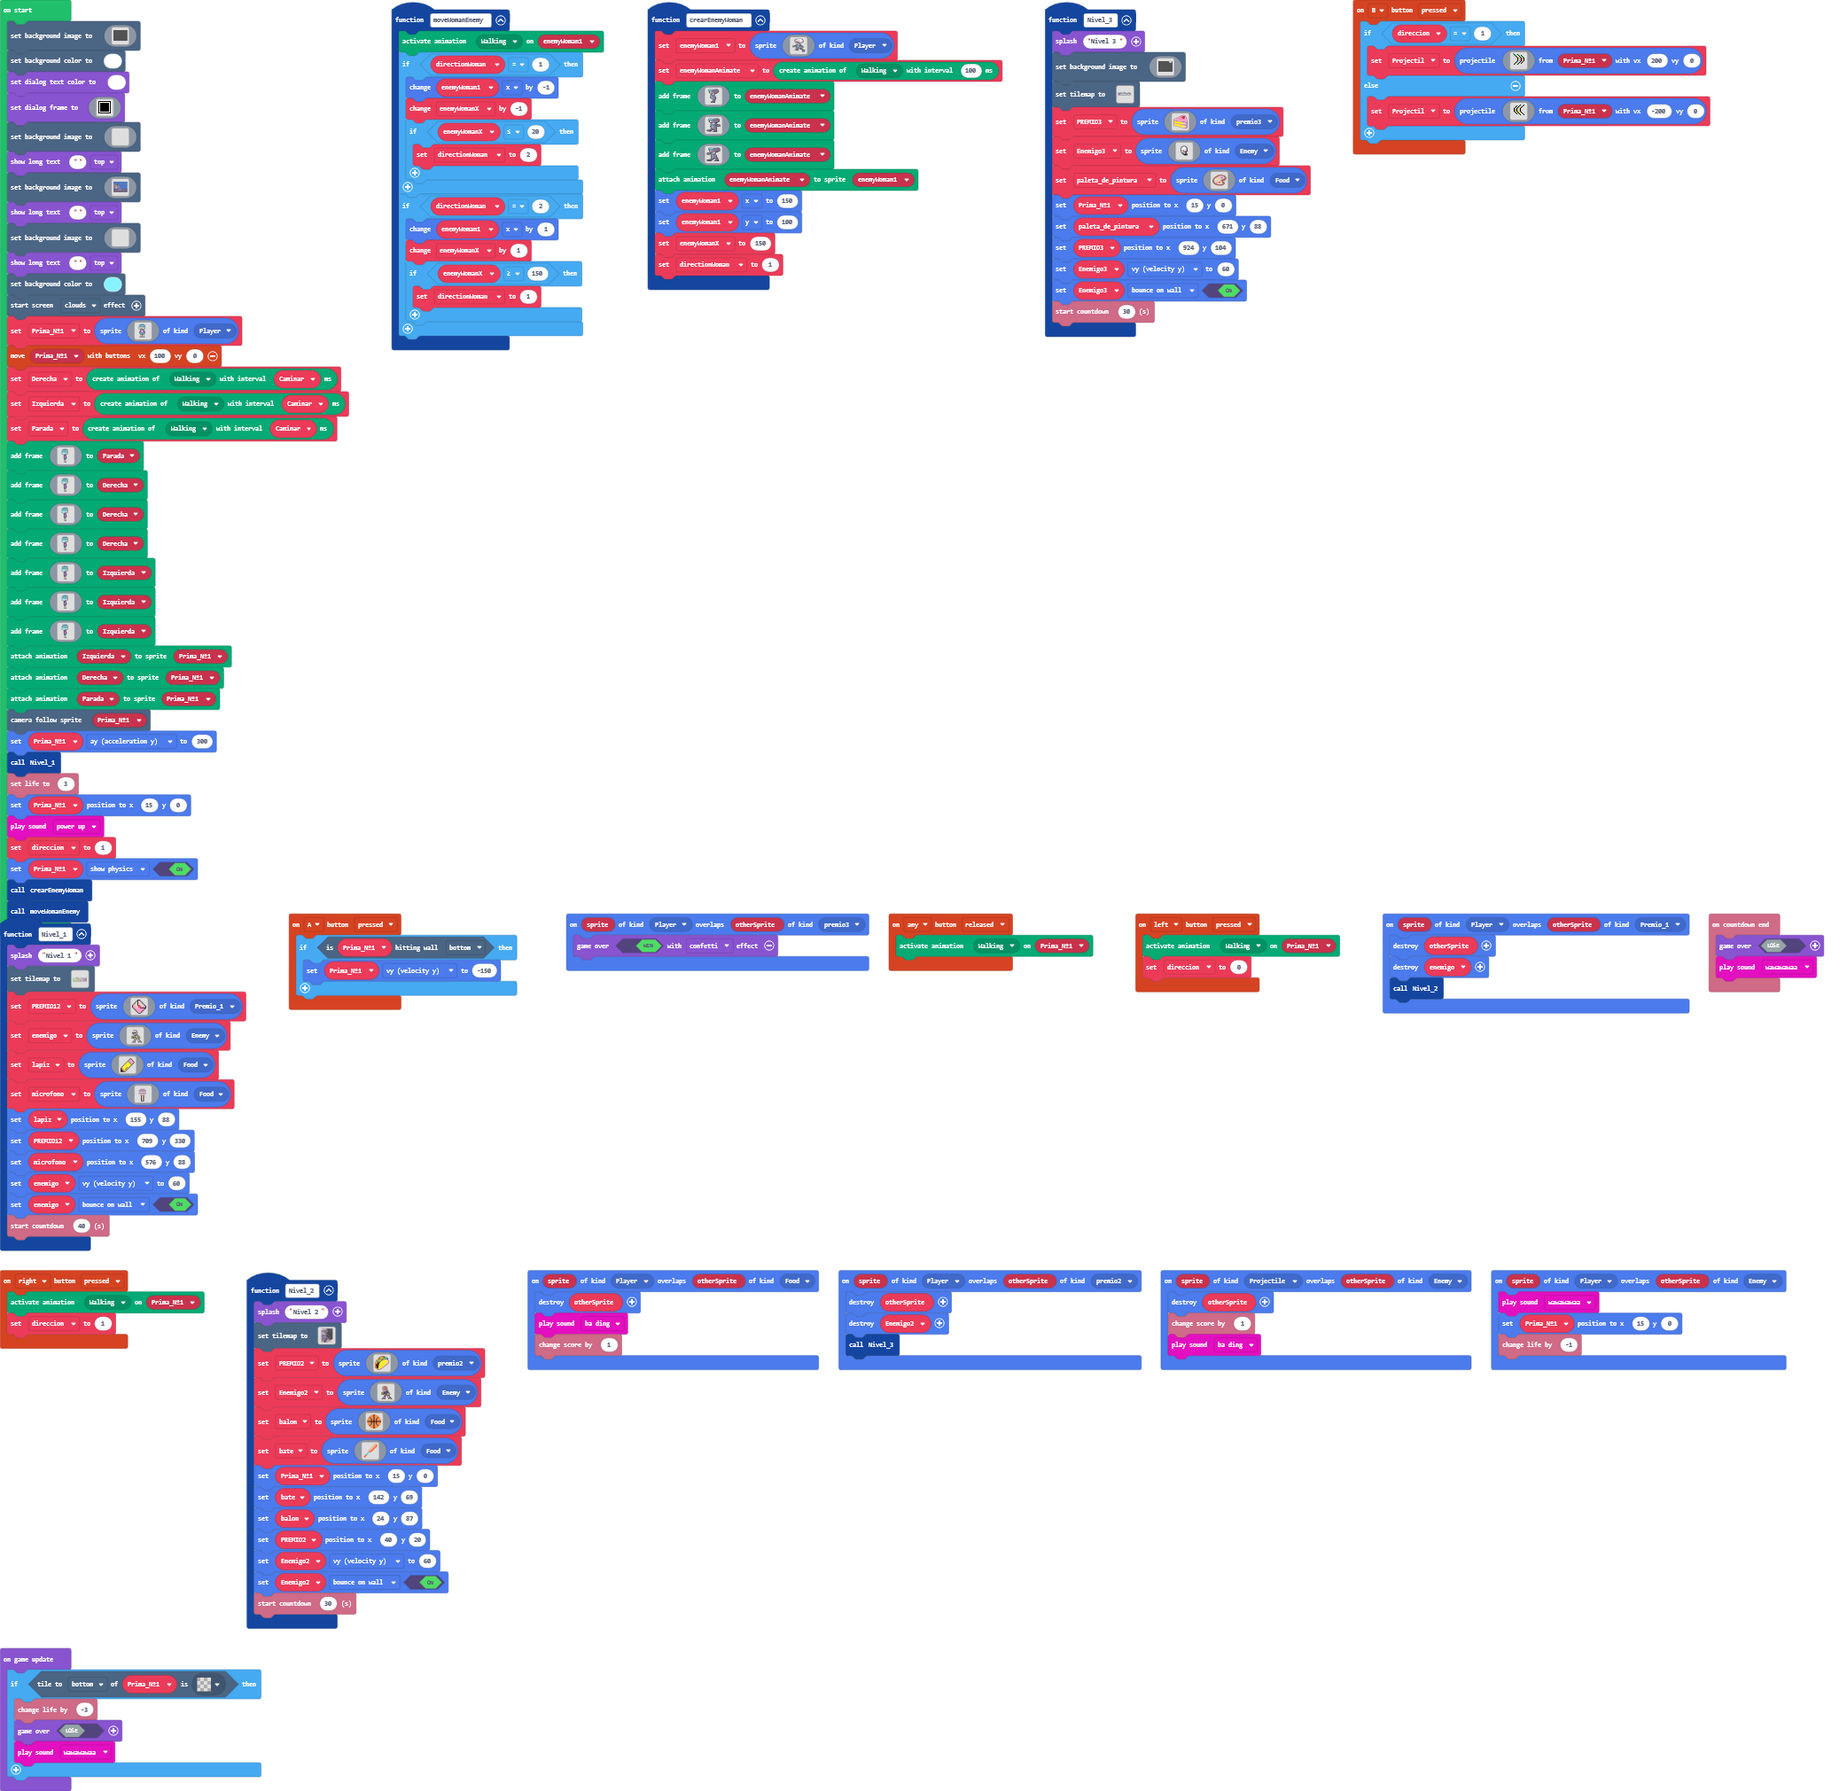
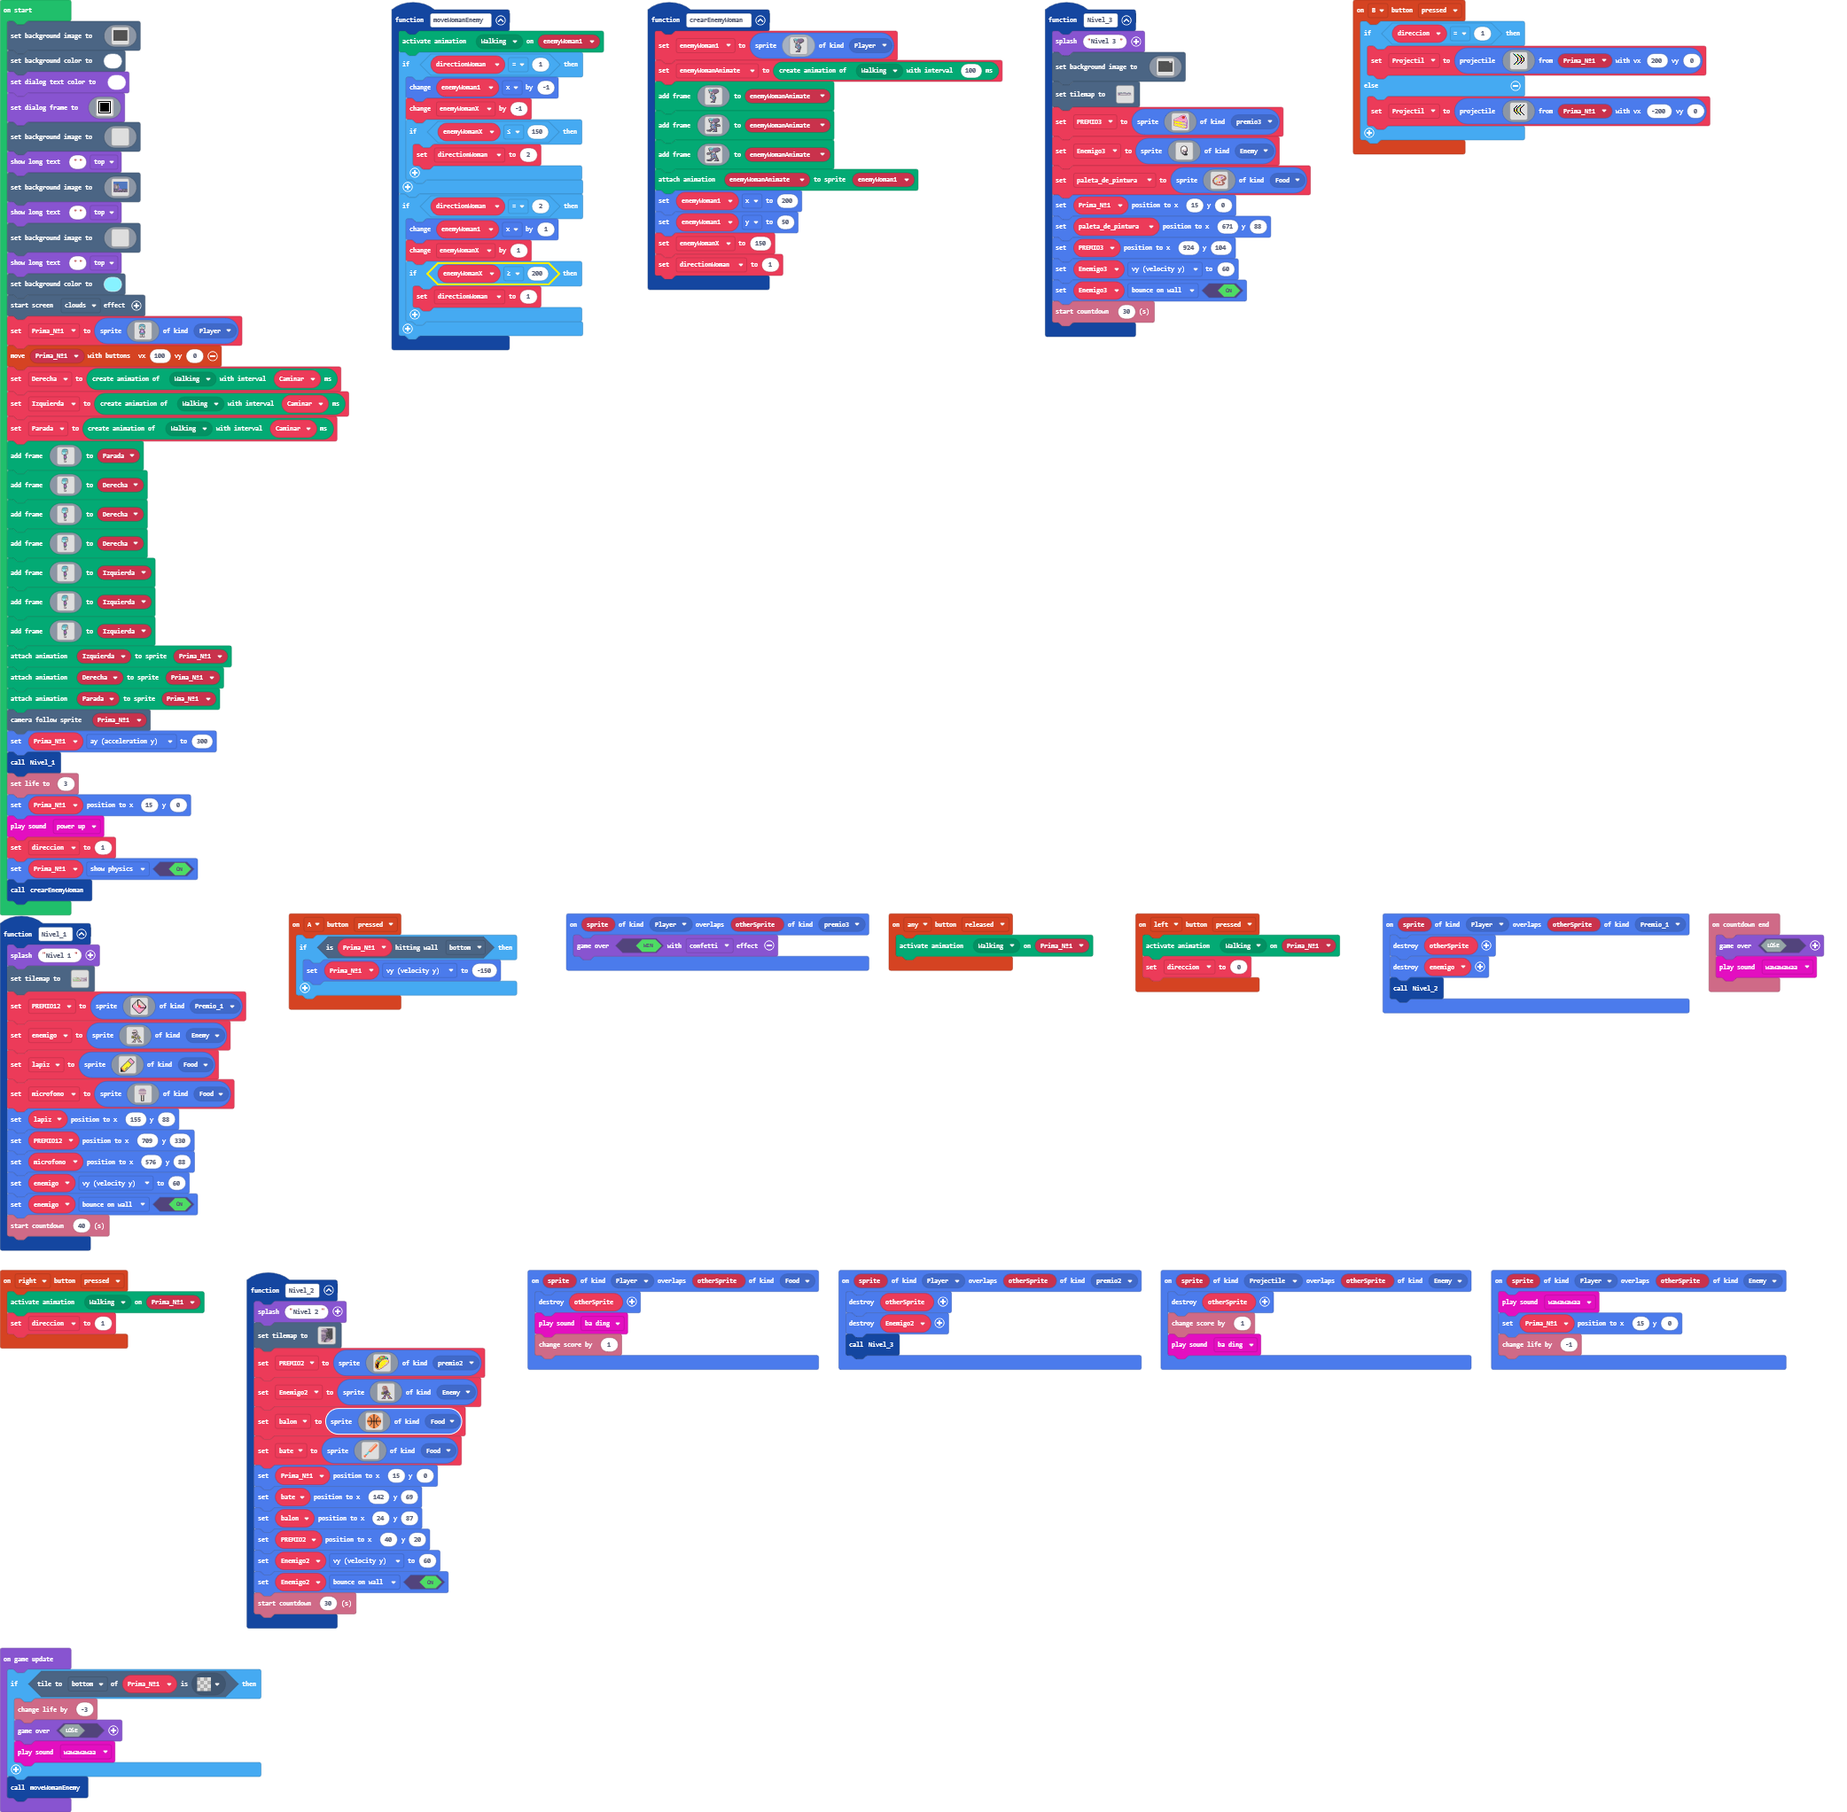
push2

diff --git a/main.ts b/main.ts
@@ -455,14 +455,14 @@ function moveWomanEnemy () {
     if (directionWoman == 1) {
         enemyWoman1.x += -1
         enemyWomanX += -1
-        if (enemyWomanX <= 20) {
+        if (enemyWomanX <= 150) {
             directionWoman = 2
         }
     }
     if (directionWoman == 2) {
         enemyWoman1.x += 1
         enemyWomanX += 1
-        if (enemyWomanX >= 150) {
+        if (enemyWomanX >= 200) {
             directionWoman = 1
         }
     }
@@ -679,70 +679,52 @@ function Nivel_2 () {
 }
 function crearEnemyWoman () {
     enemyWoman1 = sprites.create(img`
-        . . . . . . . . . . . . . . . . . . . . . . . . . . . . . d . . . d d d d d d d d d d . . . . . . . . . . . . . . . . . . . . . 
-        . . . . . . . . . . . . . . . . . . . . . . . . d c f f f f f c f f f f f f f f f f f c d . . . . . . . . . . . . . . . . . . . 
-        . . . . . . . . . . . . . . . . . . . . . . . f f c b b b c f f f f f f f f f f f f f f f b d . . . . . . . . . . . . . . . . . 
-        . . . . . . . . . . . . . . . . . . . . . f f f f d d d d b b b b d 1 1 1 1 1 1 1 1 b f f f f c b . . . . . . . . . . . . . . . 
-        . . . . . . . . . . . . . . . . . . . f f f f f f c d d d d d 1 1 1 1 1 1 1 1 1 1 1 1 d c f f f f c . . . . . . . . . . . . . . 
-        . . . . . . . . . . . . . . . . . f f f f c f c c b 1 d d d 1 1 d 1 1 1 1 1 1 1 1 1 1 1 1 1 d c f f c . . . . . . . . . . . . . 
-        . . . . . . . . . . . . . . . . f f f c d d d d d 1 1 d d d d d d d 1 1 1 1 1 1 1 1 1 1 1 1 1 1 c f f b . . . . . . . . . . . . 
-        . . . . . . . . . . . . . . . f f c b d d 1 d d d 1 1 d d d d d d d d d 1 1 1 1 1 1 1 1 1 1 1 1 1 c f f d . . . . . . . . . . . 
-        . . . . . . . . . . . . . . f f b d d d d d d d d d 1 d d d d d d d d d d 1 1 1 1 1 1 1 1 1 1 1 1 d f f c d . . . . . . . . . . 
-        . . . . . . . . . . . . . c f b d d d d d d d d d d 1 d d d d d d d d d d d 1 1 1 1 1 1 1 1 1 1 1 1 b f f c . . . . . . . . . . 
-        . . . . . . . . . . . . . c c d d b c b d d d d d d d d d d d d d d d d d d 1 1 1 1 1 1 1 1 1 1 1 1 1 b f f . . . . . . . . . . 
-        . . . . . . . . . . . . . c f c d c c f b d d d d d d d d d d d d d d d d d d 1 1 1 1 1 1 1 1 1 1 d d d f f d . . . . . . . . . 
-        . . . . . . . . . . . . . d f f b c d c f d d d d d d d d d d d d d d d d d d d 1 1 1 1 1 d 1 1 1 d d d f f b . . . . . . . . . 
-        . . . . . . . . . . . . . . f f f f d d f b d d d d d d d d d d d d d d d d d d 1 1 1 1 d d d d d d d d c f c . . . . . . . . . 
-        . . . . . . . . . . . . . . d b c f d d f b c b d b d d d b b d d d d d d d d d 1 1 d d d d d d d d d d c f c . . . . . . . . . 
-        . . . . . . . . . . . . . . . . d c c d c f f b b c d d d c f b d d d d b d d d d d d d d d d d d d d d b f c . . . . . . . . . 
-        . . . . . . . . . . . . . . . . d c f d d f f c c f d d b f f b b d b b b d b d d d d d d d d d d d d b f f c . . . . . . . . . 
-        . . . . . . . . . . . . . . . f f c d d d c c f f c b f c f f c b b b b b b b d d d d d d d d d d d c f f f d . . . . . . . . . 
-        . . . . . . . . . . . . . . . f c d d d d d d b f f f f f e c c b b b b b b d d d d d d d d b b d c f f c d . . . . . . . . . . 
-        . . . . . . . . . . . . . . . d f c d d f c d d d c b f f b b f c f c b b d d d d d d b c f f f c f c b . . . . . . . . . . . . 
-        . . . . . . . . . . . . . . . . d f f f f b d d d d d f e d d c f f f b b d d d d d d c f f f c c d . . . . . . . . . . . . . . 
-        . . . . . . . . . . . . . . . . . c f c d d d d b b b b d d d b f f c f b b b b c d b c f b . . . . . . . . . . . . . . . . . . 
-        . . . . . . . . . . . . . . . . . . . f c c f f f f f f c d b e f f b f f f f f f f f f f . . . . . . . . . . . . . . . . . . . 
-        . . . . . . . . . . . . . . . . . . . . . . . . . . d c f f f f f f f f b b d . . . . . . . . . . . . . . . . . . . . . . . . . 
-        . . . . . . . . . . . . . . . . . . . . . . . . . . c f f c b d d d f f c d . . . . . . . . . . . . . . . . . . . . . . . . . . 
-        . . . . . . . . . . . . . . . . . . . . . . . . . b f b d d d d d d b f f f c d . . . . . . . . . . . . . . . . . . . . . . . . 
-        . . . . . . . . . . . . . . . . . . . . . . . . f f f d d d d d c b d b f f f f . . . . . . . . . . . . . . . . . . . . . . . . 
-        . . . . . . . . . . . . . . . . . . . . . . d f f c b 9 d d b f f b d d c e b c f f c b . . . . . . . . . . . . . . . . . . . . 
-        . . . . . . . . . . . . . . . . . . . . . d f f 6 9 6 b c f f e d d d b f b 3 3 c f f f . . . . . . . . . . . . . . . . . . . . 
-        . . . . . . . . . . . . . . . . . . . d f f f 6 6 6 c f c b d d d b c c f c b b b 6 f f . . . . . . . . . . . . . . . . . . . . 
-        . . . . . . . . . . . . . . . . . d f f f 6 6 6 6 f f 6 b b b b c c c c f c 6 6 6 c c f b . . . . . . . . . . . . . . . . . . . 
-        . . . . . . . . . . . . . . . . b f f c 6 6 6 c f c 6 6 6 6 6 6 6 6 6 b f f f c 6 6 6 c f f . . . . . . . . . . . . . . . . . . 
-        . . . . . . . . . . . . . . f f f c c c c c c f c 6 6 6 6 6 6 6 6 6 6 6 f f f f c 6 c c c f f . . . . . . . . . . . . . . . . . 
-        . . . . . . . . . d d f f f f f c c c c c c f f c 6 6 6 6 c c 6 6 6 6 6 f f f f f c c c c c f . . . . . . . . . . . . . . . . . 
-        . . . . . b f f f f f f f f f c c c c f f f f f 6 6 6 6 6 6 6 6 6 9 9 9 f f . . f f c c c c f f b c b d . . . . . . . . . . . . 
-        . . . . . c f f c c c c b b 6 c c f f f f b f 6 9 6 6 c c c c c c c 6 6 f c f . . . f f c c c f f f f f . . . . . . . . . . . . 
-        . . . . . b f f f c c b d d 9 9 c f c f d f f 6 6 6 6 b d d d b c c c 6 b f b c f . . f f c c c f f f f d . . . . . . . . . . . 
-        . . . . c f c b c c c c c c f c b f . . c f f f 6 6 c d d d d d d c c c b f f d b f . . f f f f c c c f f f d . . . . . . . . . 
-        . . . . c f b d d b c c f f c f f . . d c f c f c c c c b d d d d c c b b c f f b f f . . f c c c c c c c f f d . . . . . . . . 
-        . . . . d f f f c c f f f f f f d . d . c f b b f f c c c c c c c c c c c c b c f f f d . . f f f c b b d f f b . . . . . . . . 
-        . . . . . d f f f f f d . . . . . . . . c f b . b f f c c c c c c c c c c b b b 6 f f f f . . f c f c c c f f . . . . . . . . . 
-        . . . . . . . . . . . . . . . . . . . f f f c b 6 b f f c 6 6 6 c 6 b 6 6 6 6 9 9 6 c f f c . f f d c c c b f . . . . . . . . . 
-        . . . . . . . . . . . . . . . . . . f f c c f b d d d f f c b 6 6 6 6 6 9 9 9 9 9 9 9 9 f d . . f f f f f f . . . . . . . . . . 
-        . . . . . . . . . . . . . . . . . d f c 6 6 6 6 b d . d f f c c c c c c c c c c c b c c f . . . . . . . . . . . . . . . . . . . 
-        . . . . . . . . . . . . . . . . . d f f c 6 c c c c c b c f f c c c c c c c c c f f f f c . . . . . . . . . . . . . . . . . . . 
-        . . . . . . . . . . . . . . . . . . c f f c 6 c c c c c c f f f f 6 6 6 6 6 6 6 6 c c f f f f d . . . . . . . . . . . . . . . . 
-        . . . . . . . . . . . . . . . . . . . . f f c c c c c c c c f d f f f f f f f f f 6 6 f f f f f f f . . . . . . . . . . . . . . 
-        . . . . . . . . . . . . . . . . . . . . d f f c c c c c c c f . . . f f f f c c f f f f c c c c f f f . . . . . . . . . . . . . 
-        . . . . . . . . . . . . . . . . . . . . . d f f c c c c c c f d . . . b f f f f c c c c c c b c c c f f . . . . . . . . . . . . 
-        . . . . . . . . . . . . . . . . . . . . . . . c f c c c c c f f . . . . . f f f f f f c c c c c c c c f f . . . . . . . . . . . 
-        . . . . . . . . . . . . . . . . . . . . . . b c f f c c c c c f d . . . . . . . f f f f f c c c c c c f f f . . . . . . . . . . 
-        . . . . . . . . . . . . . . . c f f f f f f f f c c c c c c c f d . . . . . . . . . f f f f c c c c c f c f f . . . . . . . . . 
-        . . . . . . . . . . . . . . d f c c c c c c c c c c c c b c f f b . . . . . . . . . . . d f f c c c c c f f f f f f f . . . . . 
-        . . . . . . . . . . . . . . d f f c c c c c c c c c c c c c f f b . . . . . . . . . . . . . f f c c c c c c f c f f f f d . . . 
-        . . . . . . . . . . . . . . . b f f f c c c f f f f f f c c f c . . . . . . . . . . . . . . . f f c c c b c c c f f f f f f . . 
-        . . . . . . . . . . . . . . . . . d f f f f f f c c c f f f f . . . . . . . . . . . . . . . . . f f c c c c c c c c f f f c . . 
-        . . . . . . . . . . . . . . . . . . . . . . . . . . d c f f . . . . . . . . . . . . . . . . . . . f f c c c c c c c f b f f . . 
-        . . . . . . . . . . . . . . . . . . . . . . . . . . . . . . . . . . . . . . . . . . . . . . . . . f f f c c c c c c f f f . . . 
-        . . . . . . . . . . . . . . . . . . . . . . . . . . . . . . . . . . . . . . . . . . . . . . . . . . f f f c b c c c f f . . . . 
-        . . . . . . . . . . . . . . . . . . . . . . . . . . . . . . . . . . . . . . . . . . . . . . . . . f f f c c c c c b f b . . . . 
-        . . . . . . . . . . . . . . . . . . . . . . . . . . . . . . . . . . . . . . . . . . . . . . . . . f c c c c c 6 c f f . . . . . 
-        . . . . . . . . . . . . . . . . . . . . . . . . . . . . . . . . . . . . . . . . . . . . . . . . c f f c b 9 9 c f c . . . . . . 
-        . . . . . . . . . . . . . . . . . . . . . . . . . . . . . . . . . . . . . . . . . . . . . . . . c f f f f f f f f b . . . . . . 
-        . . . . . . . . . . . . . . . . . . . . . . . . . . . . . . . . . . . . . . . . . . . . . . . . . d d d d d d . . . . . . . . . 
+        . . . . . . . . . . . . f f f f c 9 9 6 6 6 6 6 6 6 6 c c f f f f f . . . . . . . . . . . . 
+        . . . . . . . . . . f f f c 6 6 9 9 9 9 6 6 6 6 b b c c c c c c c f f f . . . . . . . . . . 
+        . . . . . . . . f f f b 9 9 9 9 9 9 9 9 b 6 b c c b b c c c c c c c c f f . . . . . . . . . 
+        . . . . . . . f f c 9 9 9 9 6 6 6 6 6 6 6 c c c c c c c c c c c c c c c f f . . . . . . . . 
+        . . . . . . . f 6 9 9 6 6 6 6 6 6 6 6 6 c c c c c c c c c c c c c c c c c f f . . . . . . . 
+        . . . . . . . f 6 9 6 6 6 6 6 6 6 6 6 6 c c c c c c c c c c c c c c c c c c f f . . . . . . 
+        . . . . . . . f 6 6 6 c 6 6 6 6 6 6 6 6 c c c c c c c c c c c c c c c c c c c f . . . . . . 
+        . . . . . . . f c 6 6 c b 6 6 6 6 6 6 c c c c c c c c c c c c c c c c c c c c f f . . . . . 
+        . . . . . . . f f f c b d c 6 6 6 6 c c c c c c c c c c c c c c c c c c c c c f f . . . . . 
+        . . . . . . . . . f f c d 6 c 6 6 c c c c c c c c c c c c c c c c c c c c c c f f . . . . . 
+        . . . . . . . . . f f b d d c 6 6 c c c c c c c c c c c c c c c c c c c c c c f . . . . . . 
+        . . . . . . . . f f b d d d b b c c c c c c c c c c c c c c c c c c c c c c f f . . . . . . 
+        . . . . . . . . f f c d d d b b b b e b e c c c c c c c c c c c c b b c f f f . . . . . . . 
+        . . . . . . . . . f f f d d d d d 3 3 3 3 e c c c c c c c c c c f c f f f . . . . . . . . . 
+        . . . . . . . . . . f f c d b b e e b 3 3 3 b e e c c c c c c c f f f . . . . . . . . . . . 
+        . . . . . . . . . . . f f f f f f f f f e b c b b f f f f f f f f f . . . . . . . . . . . . 
+        . . . . . . . . . . . . . . . . . f f f c b d d d c f f f f f f f . . . . . . . . . . . . . 
+        . . . . . . . . . . . . . . . . f f f c b d d d d d f f . . . . . . . . . . . . . . . . . . 
+        . . . . . . . . . . . . . . f f f f b d d b b b d d c f . . . . . . . . . . . . . . . . . . 
+        . . . . . . . . . . . . . f f f c c d b 6 6 6 c 3 b f f . . . . . . . . . . . . . . . . . . 
+        . . . . . . . . . . . . . f f c 9 6 a c 6 6 6 c c c f . . . . . . . . . . . . . . . . . . . 
+        . . . . . . . . . . . . . f f 6 6 8 8 c 6 6 c c c f f . . . . . . . . . . . . . . . . . . . 
+        . . . . . . . . . . . . . . f c 6 8 8 c c c c 8 8 f f . . . . . . . . . . . . . . . . . . . 
+        . . . . . . . . . . . . . . f 6 6 6 6 c c c c 8 8 c f f . . . . . . . . . . . . . . . . . . 
+        . . . . . . . . . . . . . f f 6 9 6 c c c c c 8 8 6 c f f . . . . . . . . . . . . . . . . . 
+        . . . . . . . . . . . . . f f 6 6 c b b 6 c c c 8 b d d f f . . . . . . . . . . . . . . . . 
+        . . . . . . . . . . . . f f 6 6 c c b b c b d d c c b d b f f . . . . . . . . . . . . . . . 
+        . . . . . . . . . . . . f c d b b c c c c c c c 8 c c c c f f . . . . . . . . . . . . . . . 
+        . . . . . . . . . . . . f f b b b d b b c c 8 8 8 8 c c f f . . . . . . . . . . . . . . . . 
+        . . . . . . . . . . . . f f c c b b b c c 6 8 8 8 8 8 8 f f f f . . . . . . . . . . . . . . 
+        . . . . . . . . . . . . f f f c f c b d 3 b b 6 8 8 6 6 6 f f f . . . . . . . . . . . . . . 
+        . . . . . . . . . . . . . . f f f f c d b b d b 6 6 6 b 6 6 f f . . . . . . . . . . . . . . 
+        . . . . . . . . . . . . . . . . . f f c 6 6 b 6 6 6 c c c c f . . . . . . . . . . . . . . . 
+        . . . . . . . . . . . . . . . . . . f f 6 6 6 6 6 c f f f f f . . . . . . . . . . . . . . . 
+        . . . . . . . . . . . . . . . . . . . f f c c 6 c c c f f . . . . . . . . . . . . . . . . . 
+        . . . . . . . . . . . . . . . . . . . . f c c c c c c f f f . . . . . . . . . . . . . . . . 
+        . . . . . . . . . . . . . . . . . . . . f f c c c c c c f f . . . . . . . . . . . . . . . . 
+        . . . . . . . . . . . . . . . . . . . . . f c c c c c c f f . . . . . . . . . . . . . . . . 
+        . . . . . . . . . . . . . . . . . . . . . f c c c c c f f . . . . . . . . . . . . . . . . . 
+        . . . . . . . . . . . . . . . . . . . . . f c c c c c f f . . . . . . . . . . . . . . . . . 
+        . . . . . . . . . . . . . . . . . . . f f f c c c c f f . . . . . . . . . . . . . . . . . . 
+        . . . . . . . . . . . . . . . . . f f f f c c c 8 c f f . . . . . . . . . . . . . . . . . . 
+        . . . . . . . . . . . . . . f f f f f c c c c c 8 c c f . . . . . . . . . . . . . . . . . . 
+        . . . . . . . . . . . . . . f c b c c c c c c c f f f f . . . . . . . . . . . . . . . . . . 
+        . . . . . . . . . . . . . . f f c c c c c c f f f c f f . . . . . . . . . . . . . . . . . . 
+        . . . . . . . . . . . . . . f f f c c c c f f f f f f f . . . . . . . . . . . . . . . . . . 
         `, SpriteKind.Player)
     enemyWomanAnimate = animation.createAnimation(ActionKind.Walking, 100)
     enemyWomanAnimate.addAnimationFrame(img`
@@ -890,8 +872,8 @@ function crearEnemyWoman () {
         . . . . . f f f f f . f f f f f . . . . . . . . . . f f f c c c c f f f f f f f . . . . . . 
         `)
     animation.attachAnimation(enemyWoman1, enemyWomanAnimate)
-    enemyWoman1.x = 150
-    enemyWoman1.y = 100
+    enemyWoman1.x = 200
+    enemyWoman1.y = 50
     enemyWomanX = 150
     directionWoman = 1
 }
@@ -1847,11 +1829,11 @@ music.powerUp.play()
 direccion = 1
 Prima_Nº1.setFlag(SpriteFlag.ShowPhysics, true)
 crearEnemyWoman()
-moveWomanEnemy()
 game.onUpdate(function () {
     if (Prima_Nº1.tileKindAt(TileDirection.Bottom, sprites.dungeon.hazardLava1)) {
         info.changeLifeBy(-3)
         game.over(false)
         music.wawawawaa.play()
     }
+    moveWomanEnemy()
 })
